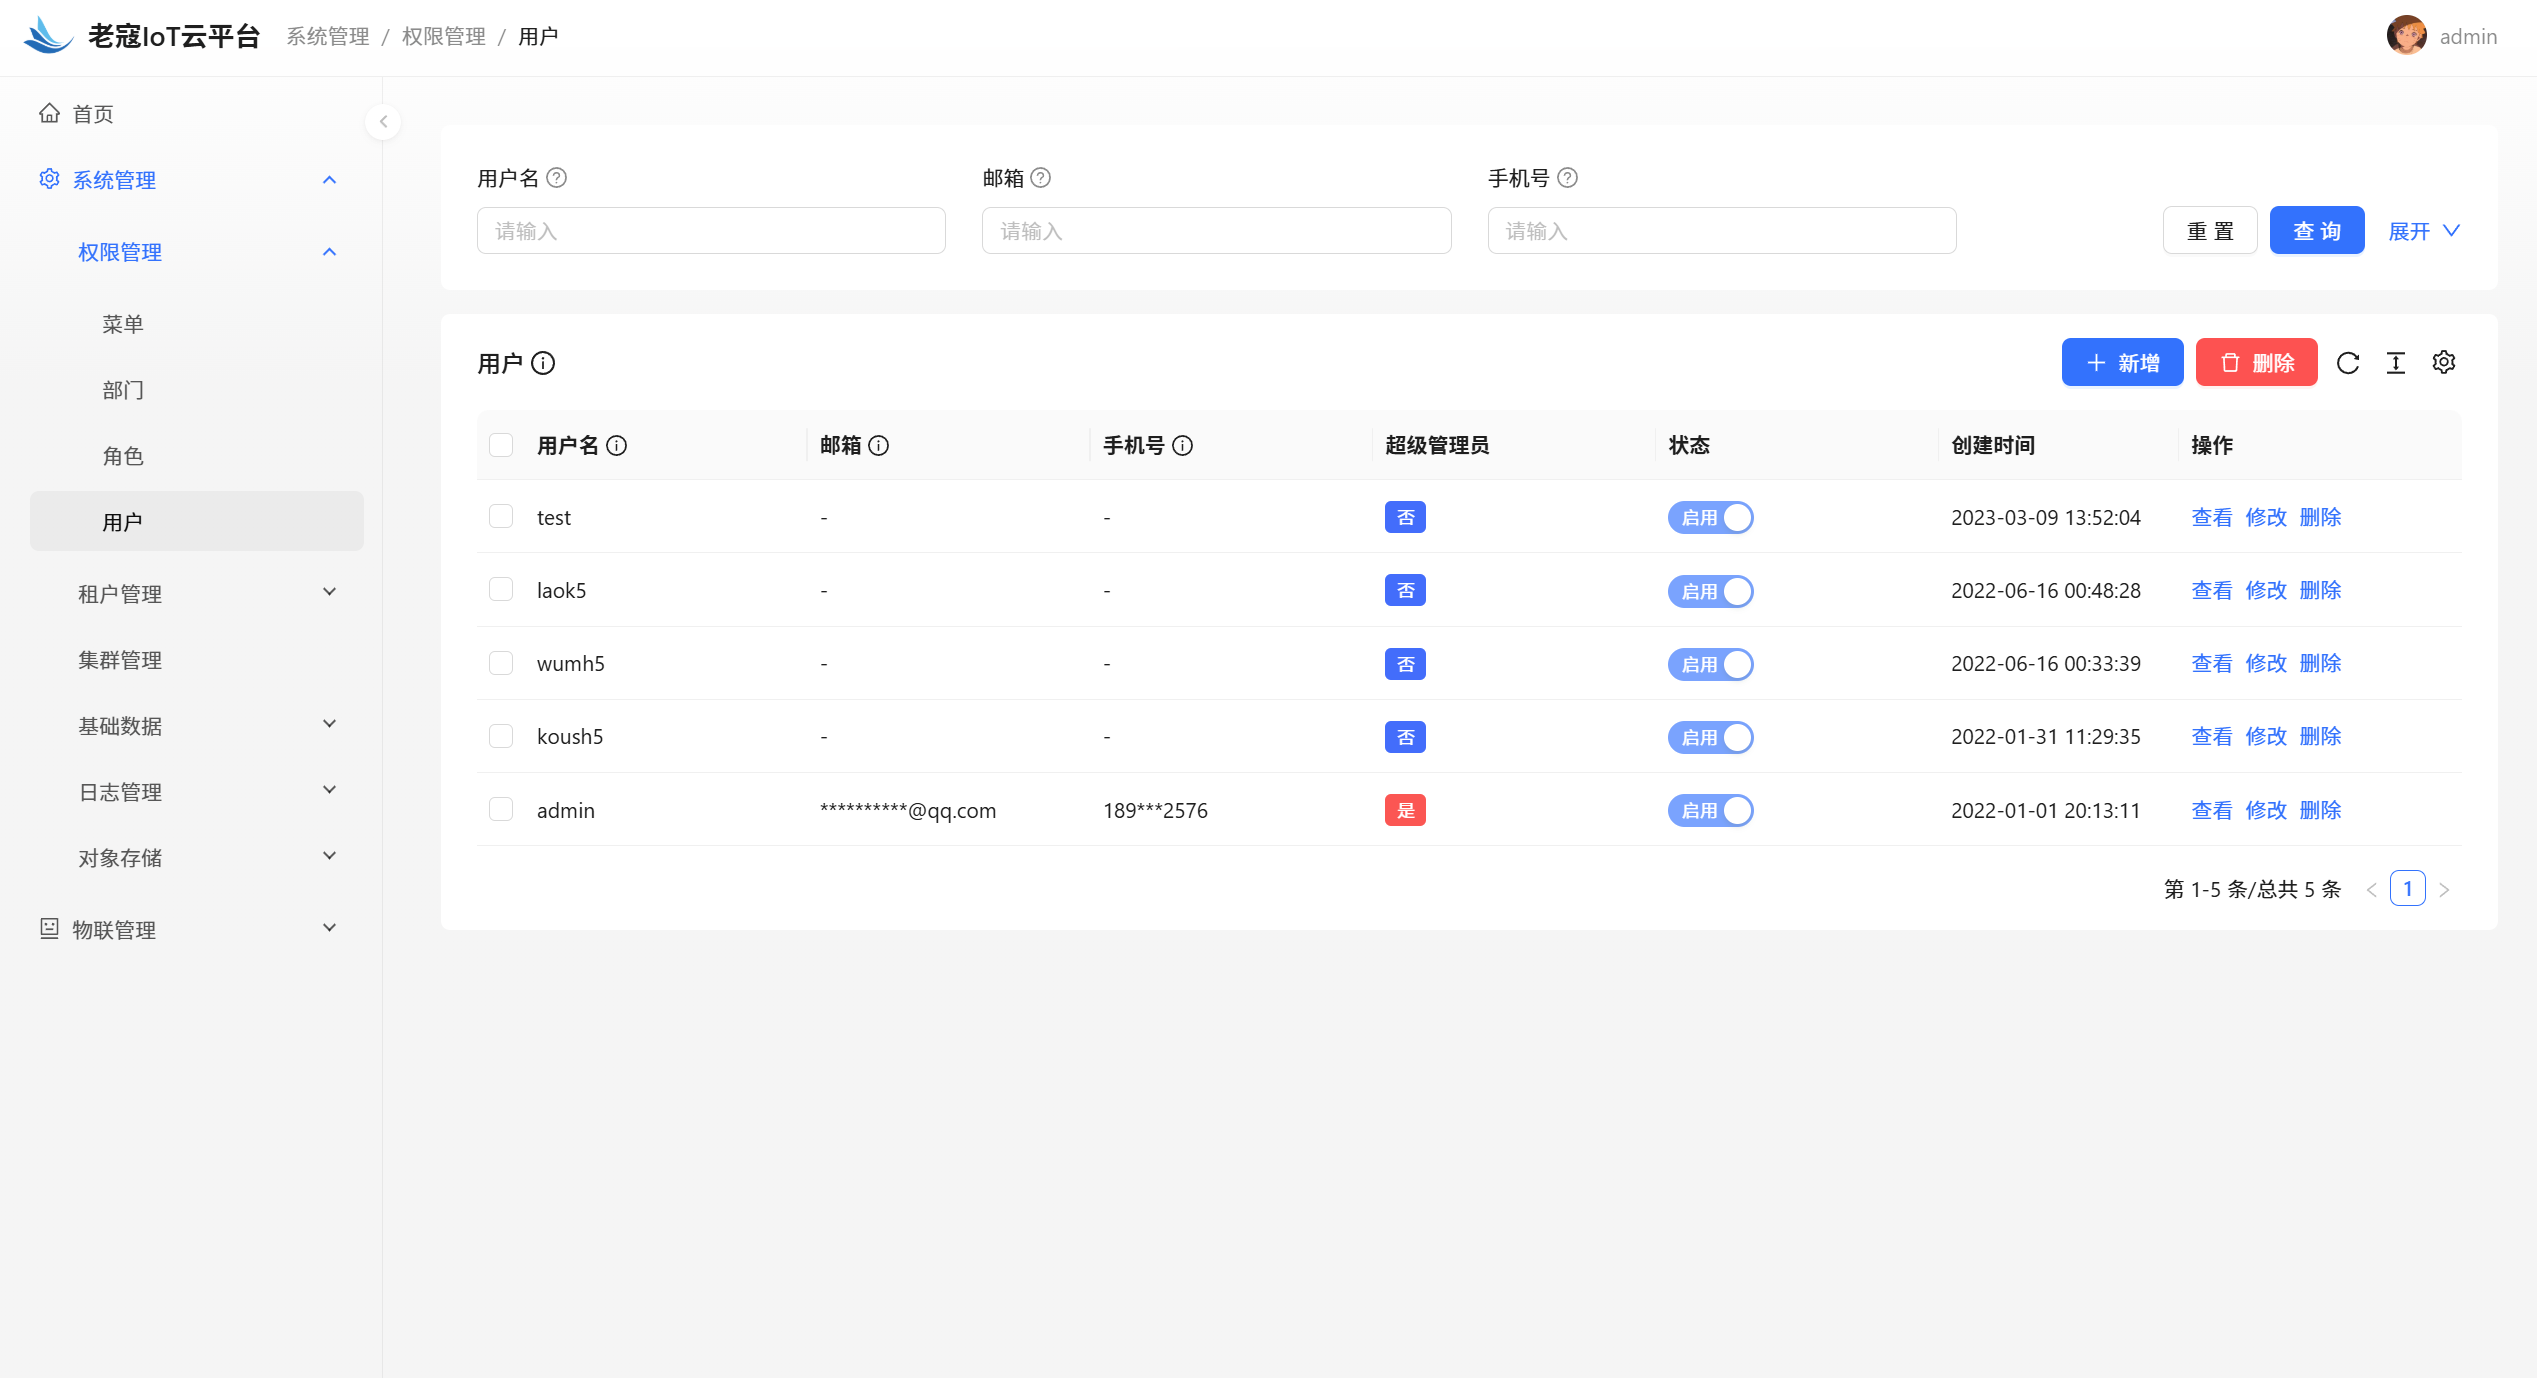
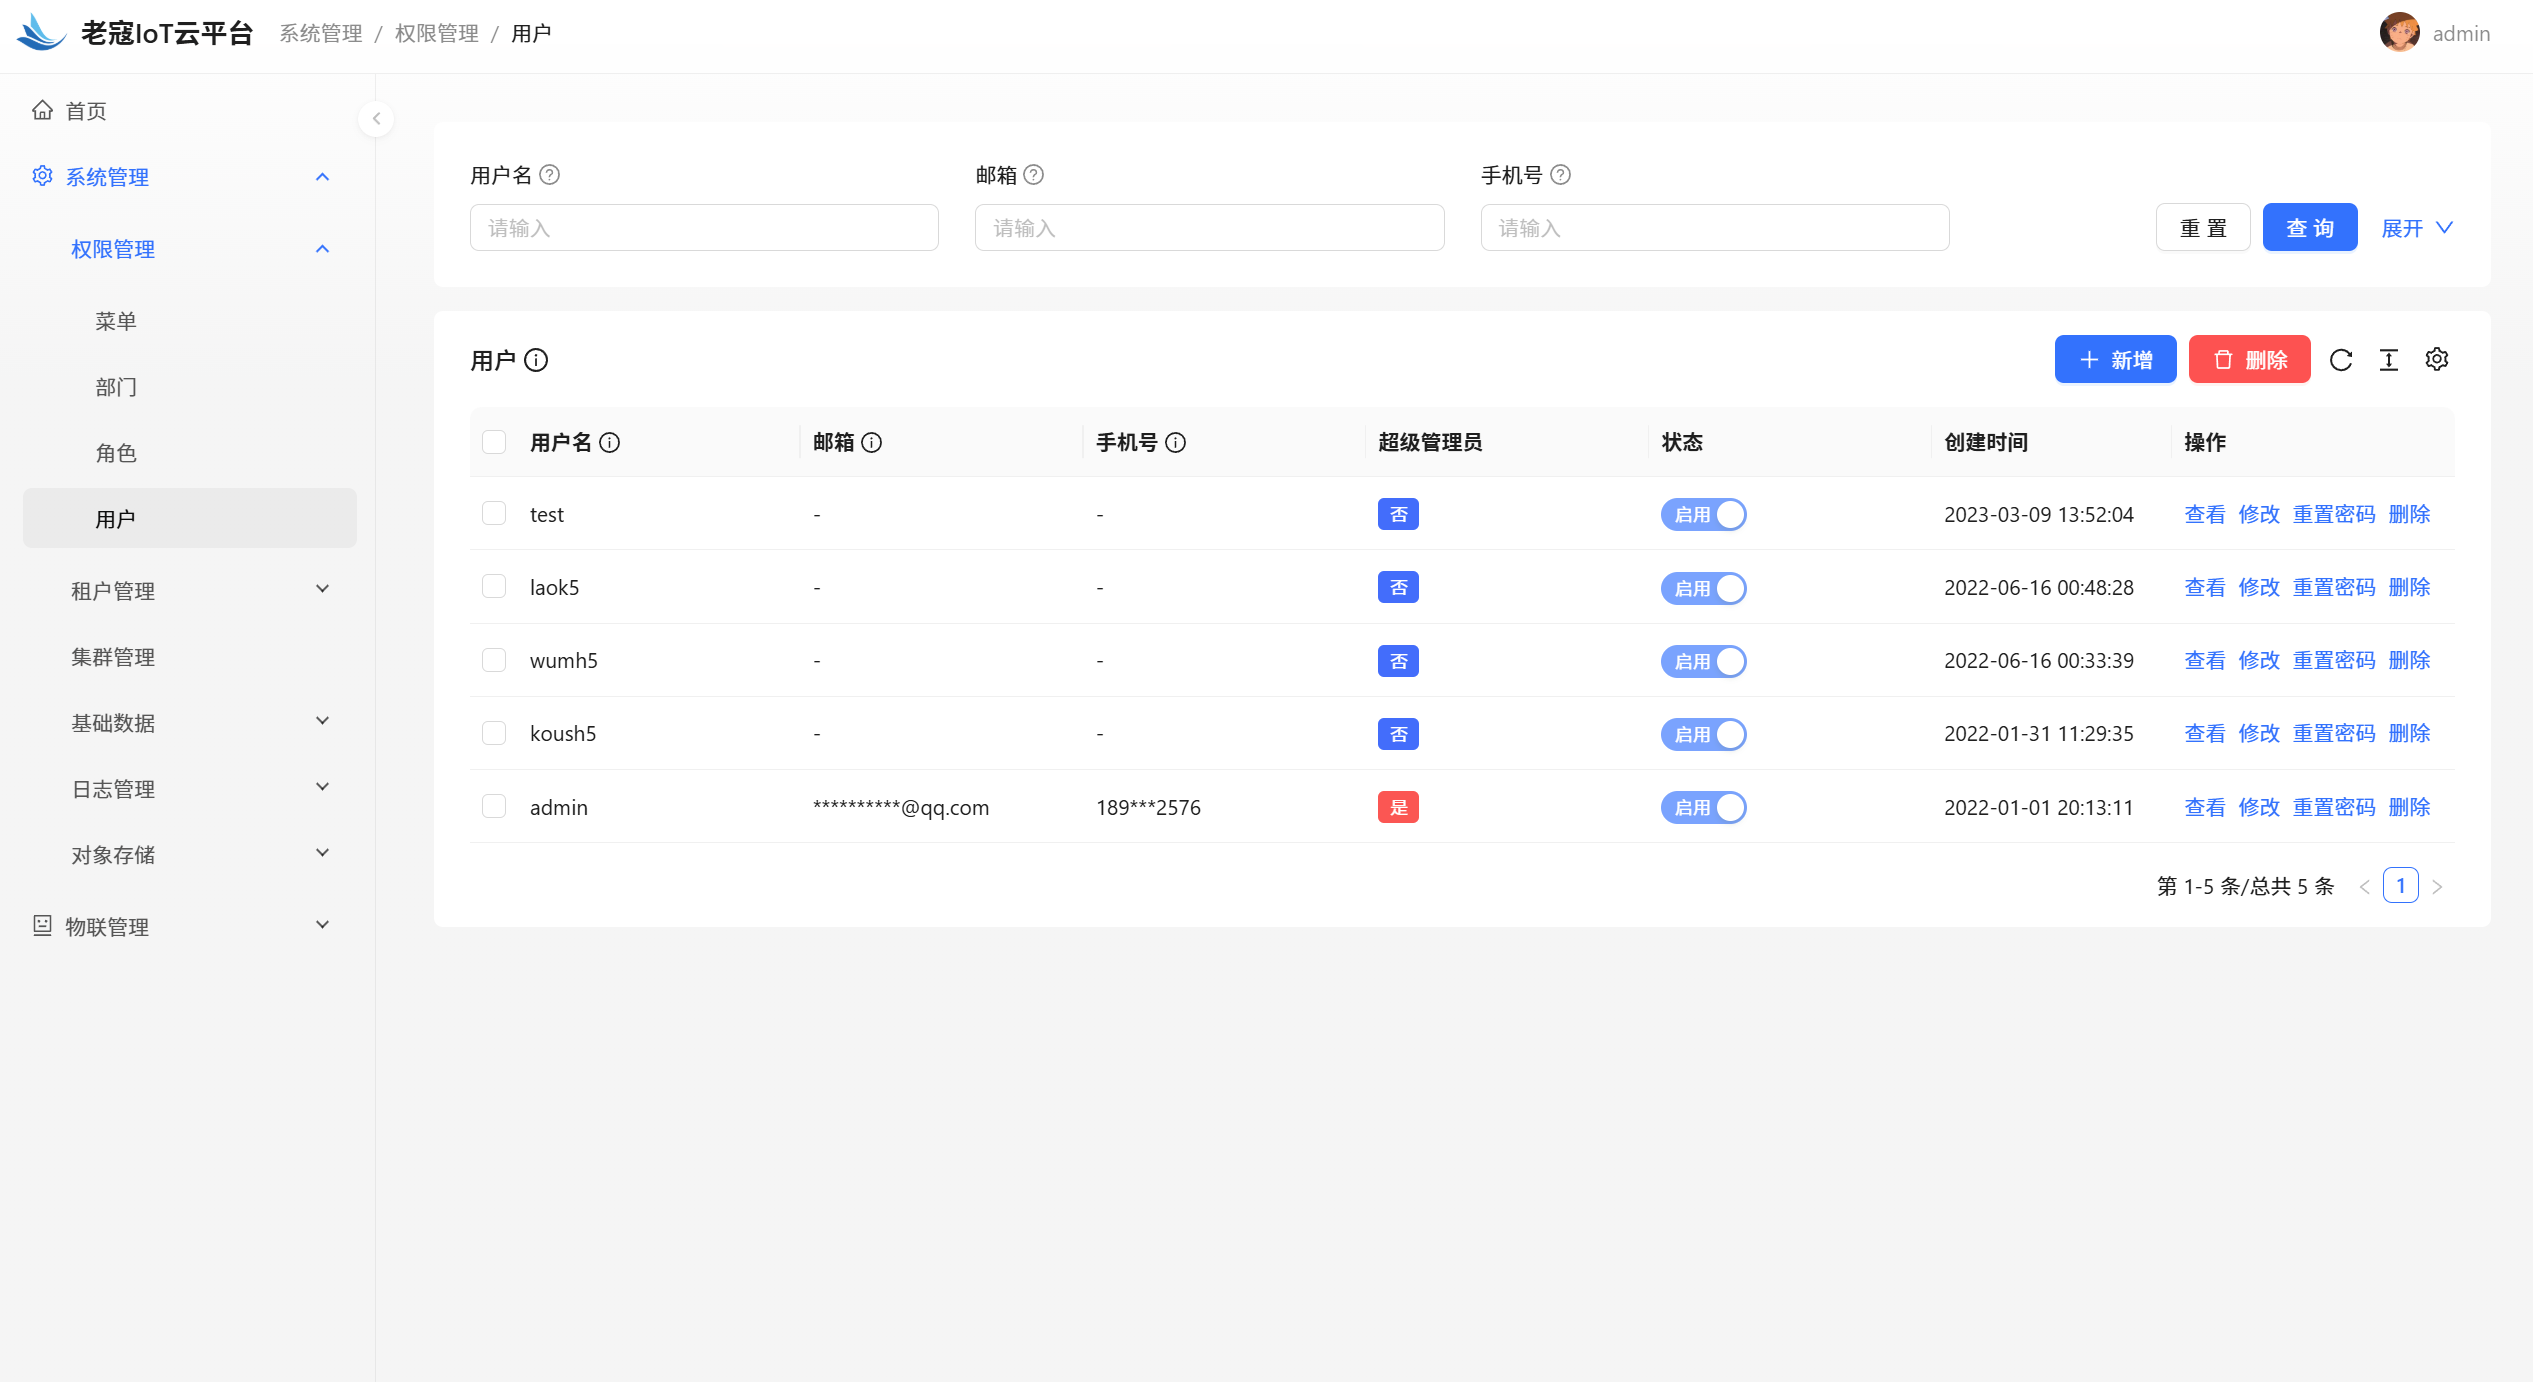
feat: 对接前端的重置密码

diff --git a/ui/src/pages/Sys/Permission/user.tsx b/ui/src/pages/Sys/Permission/user.tsx
@@ -4,11 +4,11 @@ import {
 	ProFormText, ProFormTreeSelect,
 } from '@ant-design/pro-components';
 import {ProTable} from '@ant-design/pro-components';
-import {pageV3, removeV3, saveV3, getByIdV3, modifyV3} from "@/services/admin/user";
+import { pageV3, removeV3, saveV3, getByIdV3, modifyV3, resetPwdV3 } from '@/services/admin/user';
 import {useEffect, useRef, useState} from "react";
 import {TableRowSelection} from "antd/es/table/interface";
 import {Button, message, Modal, Space, Switch, Tag} from 'antd';
-import { DeleteOutlined, PlusOutlined } from '@ant-design/icons';
+import { DeleteOutlined, PlusOutlined, UserOutlined } from '@ant-design/icons';
 import {v7 as uuidV7} from 'uuid';
 import {trim} from "@/utils/format";
 import {treeListV3} from "@/services/admin/dept";
@@ -30,10 +30,18 @@ export default () => {
 		roleIds: string[];
 	};
 
+	type TableRestPwdColumns = {
+		id: number;
+		password: string | undefined;
+		confirmPassword: string | undefined;
+	}
+
 	const [readOnly, setReadOnly] = useState(false)
 	const [modalVisit, setModalVisit] = useState(false);
+	const [modalRestPwdVisit, setModalRestPwdVisit] = useState(false);
 	const actionRef = useRef();
 	const [dataSource, setDataSource] = useState({})
+	const [primaryKey, setPrimaryKey] = useState<number>()
 	const [ids, setIds] = useState<number[]>([])
 	const [title, setTitle] = useState("")
 	const [deptTreeList, setDeptTreeList] = useState<any[]>([])
@@ -202,6 +210,12 @@ export default () => {
 				>
 					修改
 				</a>,
+				<a key={'resetPwd'} onClick={() => {
+					setPrimaryKey(record?.id)
+					setModalRestPwdVisit(true)
+				}}>
+					重置密码
+				</a>,
 				<a key="remove" onClick={() => {
 					Modal.confirm({
 						title: '确认删除?',
@@ -227,6 +241,66 @@ export default () => {
 
 	return (
 		<>
+			<DrawerForm<TableRestPwdColumns>
+				open={modalRestPwdVisit}
+				title={'重置密码'}
+				drawerProps={{
+					destroyOnClose: true,
+					closable: true,
+					maskClosable: true
+				}}
+				onOpenChange={setModalRestPwdVisit}
+				submitter={{
+					submitButtonProps: {
+						style: {
+							display: readOnly ? 'none' : 'inline-block',
+						},
+					}
+				}}
+				onFinish={ async (value) => {
+					const password = value?.password
+					const confirmPassword = value?.confirmPassword
+					if (password !== confirmPassword) {
+						message.error("两次密码不一致").then()
+						return
+					}
+					resetPwdV3({id: primaryKey, password: password}).then(res => {
+						if (res.code === 'OK') {
+							message.success("重置成功").then()
+							setModalRestPwdVisit(false)
+						}
+					})
+				}}>
+
+				<ProFormText
+					name="id"
+					label="ID"
+					hidden={true}
+				/>
+
+				<ProFormText.Password
+					name="password"
+					label="密码"
+					tooltip={"默认密码：laokou123"}
+					placeholder={'请输入密码'}
+					fieldProps={{
+						autoComplete: 'new-password',
+					}}
+					rules={[{ required: true, message: '请输入密码' }]}
+				/>
+
+				<ProFormText.Password
+					name="confirmPassword"
+					label="确认密码"
+					tooltip={"默认密码：laokou123"}
+					placeholder={'请输入确认密码'}
+					fieldProps={{
+						autoComplete: 'new-password',
+					}}
+					rules={[{ required: true, message: '请输入确认密码' }]}
+				/>
+			</DrawerForm>
+
 			<DrawerForm<TableColumns>
 				open={modalVisit}
 				title={title}

diff --git a/ui/src/services/admin/user.ts b/ui/src/services/admin/user.ts
@@ -115,3 +115,15 @@ export async function getProfileV3(options?: { [key: string]: any }) {
 		...(options || {}),
 	});
 }
+
+/** 重置密码 重置密码 PUT /v3/users/reset-pwd */
+export async function resetPwdV3(body: API.ResetPwdCmd, options?: { [key: string]: any }) {
+	return request<any>('/api/admin/v3/users/reset-pwd', {
+		method: 'PUT',
+		headers: {
+			'Content-Type': 'application/json',
+		},
+		data: body,
+		...(options || {}),
+	});
+}

diff --git a/ui/src/services/admin/typings.d.ts b/ui/src/services/admin/typings.d.ts
@@ -467,6 +467,11 @@ declare namespace API {
 		co?: UserCO;
 	};
 
+	type ResetPwdCmd = {
+		id?: number;
+		password?: string;
+	};
+
 	type UserPageQry = {
 		pageNum?: number;
 		pageSize?: number;

diff --git a/laokou-common/laokou-common-excel/src/main/java/org/laokou/common/excel/utils/ExcelUtil.java b/laokou-common/laokou-common-excel/src/main/java/org/laokou/common/excel/utils/ExcelUtil.java
@@ -74,44 +74,41 @@ public final class ExcelUtil {
 	private ExcelUtil() {
 	}
 
-	public static <MAPPER, EXCEL, DO> void doImport(Class<EXCEL> excel, ExcelConvertor<DO, EXCEL> convert,
-			InputStream inputStream, HttpServletResponse response, Class<MAPPER> clazz, BiConsumer<MAPPER, DO> consumer,
-			MybatisUtil mybatisUtil) {
-		FastExcel.read(inputStream, excel, new DataListener<>(clazz, consumer, response, mybatisUtil, convert, null))
-			.sheet()
-			.doRead();
+	public static <MAPPER, EXCEL, DO> void doImport(String sheetName, Class<EXCEL> excel,
+			ExcelConvertor<DO, EXCEL> convert, InputStream inputStream, HttpServletResponse response,
+			Class<MAPPER> clazz, BiConsumer<MAPPER, DO> consumer, MybatisUtil mybatisUtil) {
+		doImport(sheetName, excel, convert, inputStream, response, clazz, consumer, mybatisUtil, null);
 	}
 
-	public static <MAPPER, EXCEL, DO> void doImport(Class<EXCEL> excel, ExcelConvertor<DO, EXCEL> convert,
-			InputStream inputStream, HttpServletResponse response, Class<MAPPER> clazz, BiConsumer<MAPPER, DO> consumer,
-			MybatisUtil mybatisUtil, ExcelValidator<EXCEL> validator) {
+	public static <MAPPER, EXCEL, DO> void doImport(String sheetName, Class<EXCEL> excel,
+			ExcelConvertor<DO, EXCEL> convert, InputStream inputStream, HttpServletResponse response,
+			Class<MAPPER> clazz, BiConsumer<MAPPER, DO> consumer, MybatisUtil mybatisUtil,
+			ExcelValidator<EXCEL> validator) {
 		FastExcel
 			.read(inputStream, excel, new DataListener<>(clazz, consumer, response, mybatisUtil, convert, validator))
-			.sheet()
+			.sheet(sheetName)
 			.doRead();
 	}
 
-	public static <EXCEL, DO extends BaseDO> void doExport(String fileName, HttpServletResponse response,
-			PageQuery pageQuery, CrudMapper<Long, Integer, DO> crudMapper, Class<EXCEL> clazz,
-			ExcelConvertor<DO, EXCEL> convertor) {
-		doExport(fileName, BATCH_SIZE, response, pageQuery, crudMapper, clazz, convertor);
+	public static <EXCEL, DO extends BaseDO> void doExport(String fileName, String sheetName,
+			HttpServletResponse response, PageQuery pageQuery, CrudMapper<Long, Integer, DO> crudMapper,
+			Class<EXCEL> clazz, ExcelConvertor<DO, EXCEL> convertor) {
+		doExport(fileName, sheetName, BATCH_SIZE, response, pageQuery, crudMapper, clazz, convertor);
 	}
 
-	public static <EXCEL, DO extends BaseDO> void doExport(String fileName, int size, HttpServletResponse response,
-			PageQuery pageQuery, CrudMapper<Long, Integer, DO> crudMapper, Class<EXCEL> clazz,
-			ExcelConvertor<DO, EXCEL> convertor) {
+	public static <EXCEL, DO extends BaseDO> void doExport(String fileName, String sheetName, int size,
+			HttpServletResponse response, PageQuery pageQuery, CrudMapper<Long, Integer, DO> crudMapper,
+			Class<EXCEL> clazz, ExcelConvertor<DO, EXCEL> convertor) {
 		if (crudMapper.selectObjectCount(pageQuery) > 0) {
 			try (ServletOutputStream out = response.getOutputStream();
 					ExcelWriter excelWriter = FastExcel.write(out, clazz).build();
 					ExecutorService executor = ThreadUtil.newVirtualTaskExecutor()) {
-				String newFileName = fileName + "_" + DateUtil.format(DateUtil.now(), DateUtil.YYYYMMDDHHMMSS)
-						+ ".xlsx";
 				// 设置请求头
-				setHeader(newFileName, response);
+				setHeader(fileName, response);
 				// https://idev.cn/fastexcel/zh-CN/docs/write/write_hard
 				List<DO> list = Collections.synchronizedList(new ArrayList<>(size));
 				// 设置sheet页
-				WriteSheet writeSheet = FastExcel.writerSheet(fileName).head(clazz).build();
+				WriteSheet writeSheet = FastExcel.writerSheet(sheetName).head(clazz).build();
 				crudMapper.selectObjectListHandler(pageQuery, resultContext -> {
 					list.add(resultContext.getResultObject());
 					if (list.size() % size == 0) {
@@ -154,6 +151,7 @@ public final class ExcelUtil {
 	}
 
 	private static void setHeader(String fileName, HttpServletResponse response) {
+		fileName = fileName + "_导出全部_" + DateUtil.format(DateUtil.now(), DateUtil.YYYYMMDDHHMMSS) + ".xlsx";
 		response.setCharacterEncoding(StandardCharsets.UTF_8.name());
 		response.setContentType("application/vnd.ms-excel;charset=UTF-8");
 		response.setHeader("Content-disposition",

diff --git a/laokou-common/laokou-common-secret/src/main/java/org/laokou/common/secret/aop/ApiSecretAop.java b/laokou-common/laokou-common-secret/src/main/java/org/laokou/common/secret/aop/ApiSecretAop.java
@@ -66,7 +66,7 @@ public class ApiSecretAop {
 	 */
 	public static final String APP_SECRET = "app-secret";
 
-	private static Map<String, String> getParameters(HttpServletRequest request) throws IOException {
+	private static Map<String, String> getParameterMap(HttpServletRequest request) throws IOException {
 		Map<String, String[]> parameterMap = request.getParameterMap();
 		if (MapUtil.isNotEmpty(parameterMap)) {
 			return MapUtil.getParameterMap(parameterMap).toSingleValueMap();
@@ -84,7 +84,7 @@ public class ApiSecretAop {
 		String sign = request.getHeader(SIGN);
 		String appKey = request.getHeader(APP_KEY);
 		String appSecret = request.getHeader(APP_SECRET);
-		Map<String, String> parameterMap = getParameters(request);
+		Map<String, String> parameterMap = getParameterMap(request);
 		SecretUtil.verification(appKey, appSecret, sign, nonce, timestamp, parameterMap);
 		return point.proceed();
 	}

diff --git a/laokou-service/laokou-admin/laokou-admin-app/src/main/java/org/laokou/admin/loginLog/command/LoginLogExportCmdExe.java b/laokou-service/laokou-admin/laokou-admin-app/src/main/java/org/laokou/admin/loginLog/command/LoginLogExportCmdExe.java
@@ -41,8 +41,8 @@ public class LoginLogExportCmdExe {
 	public void executeVoid(LoginLogExportCmd cmd) {
 		try {
 			DynamicDataSourceContextHolder.push("domain");
-			ExcelUtil.doExport("登录日志", ResponseUtil.getHttpServletResponse(), cmd, loginLogMapper, LoginLogExcel.class,
-					LoginLogConvertor.INSTANCE);
+			ExcelUtil.doExport("登录日志", "登录日志", ResponseUtil.getHttpServletResponse(), cmd, loginLogMapper,
+					LoginLogExcel.class, LoginLogConvertor.INSTANCE);
 		}
 		finally {
 			DynamicDataSourceContextHolder.clear();

diff --git a/laokou-service/laokou-admin/laokou-admin-app/src/main/java/org/laokou/admin/noticeLog/command/NoticeLogExportCmdExe.java b/laokou-service/laokou-admin/laokou-admin-app/src/main/java/org/laokou/admin/noticeLog/command/NoticeLogExportCmdExe.java
@@ -42,7 +42,7 @@ public class NoticeLogExportCmdExe {
 		// 校验参数
 		try {
 			DynamicDataSourceContextHolder.push("domain");
-			ExcelUtil.doExport("通知日志", ResponseUtil.getHttpServletResponse(), cmd, noticeLogMapper,
+			ExcelUtil.doExport("通知日志", "通知日志", ResponseUtil.getHttpServletResponse(), cmd, noticeLogMapper,
 					NoticeLogExcel.class, NoticeLogConvertor.INSTANCE);
 		}
 		finally {
